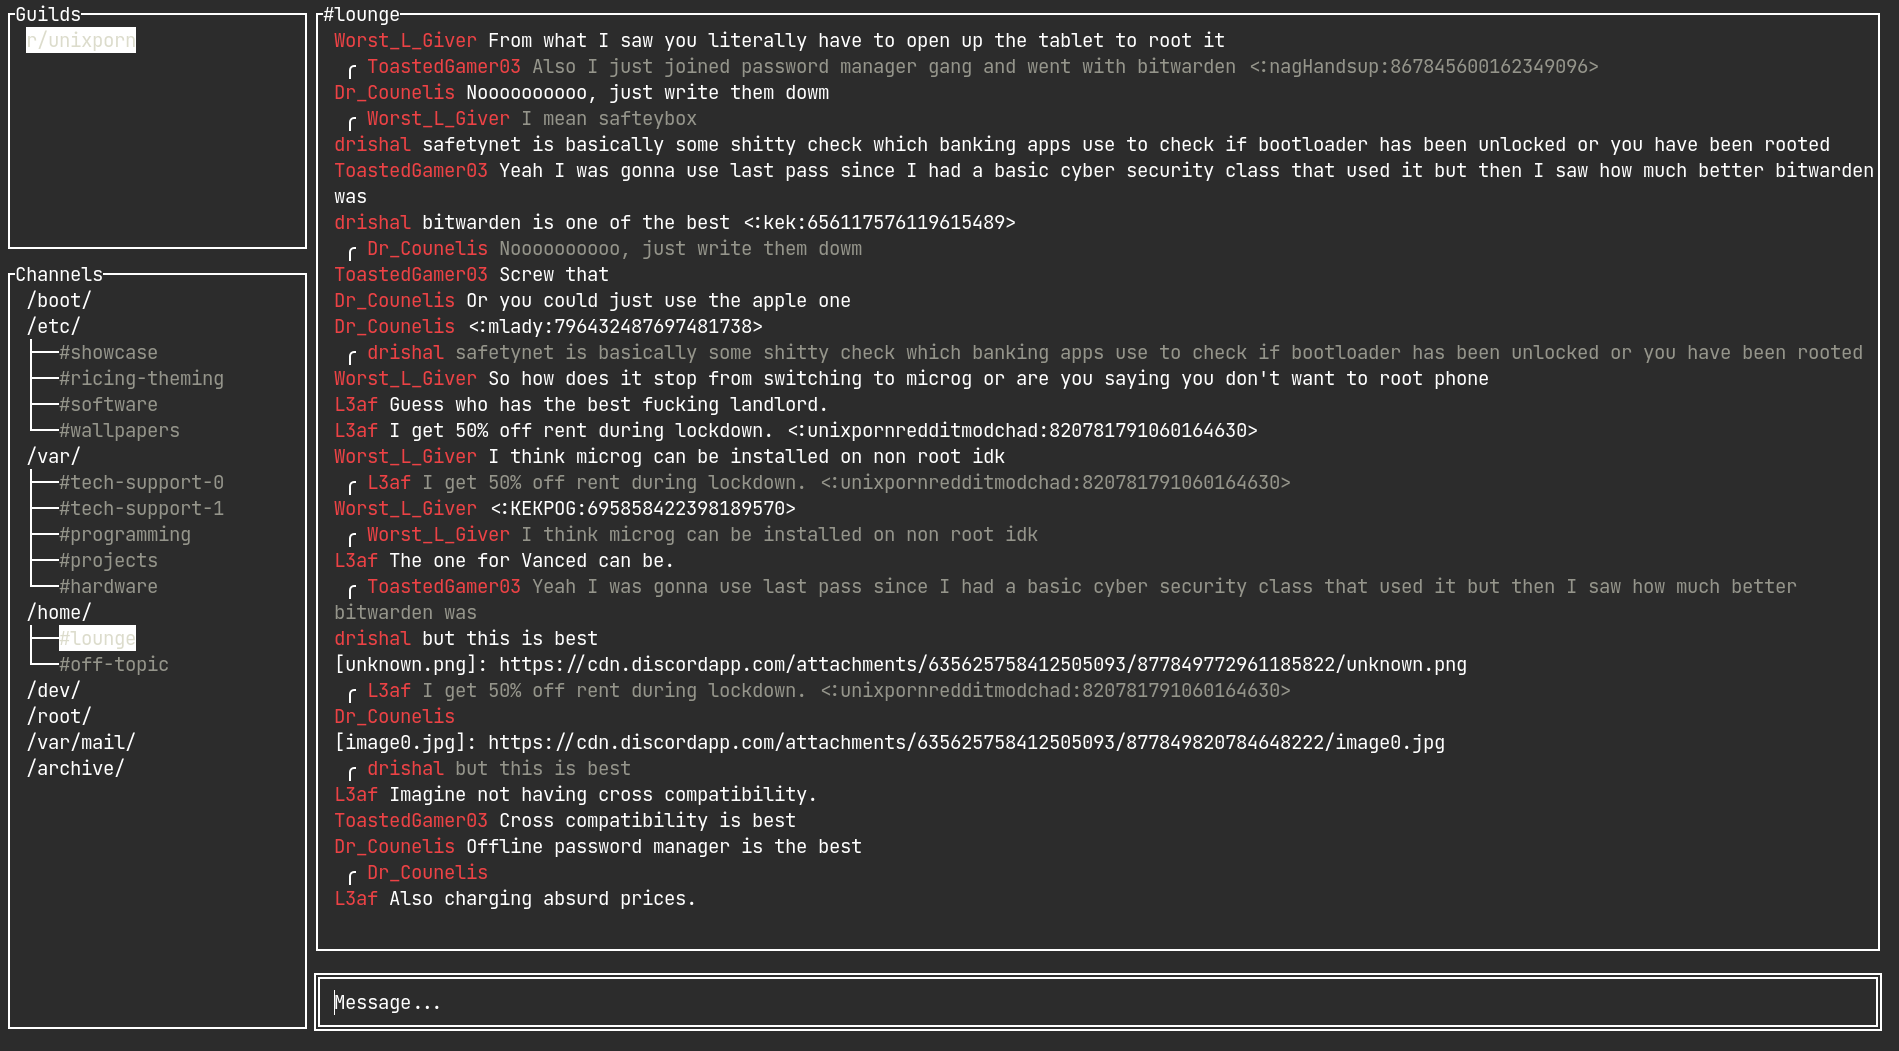
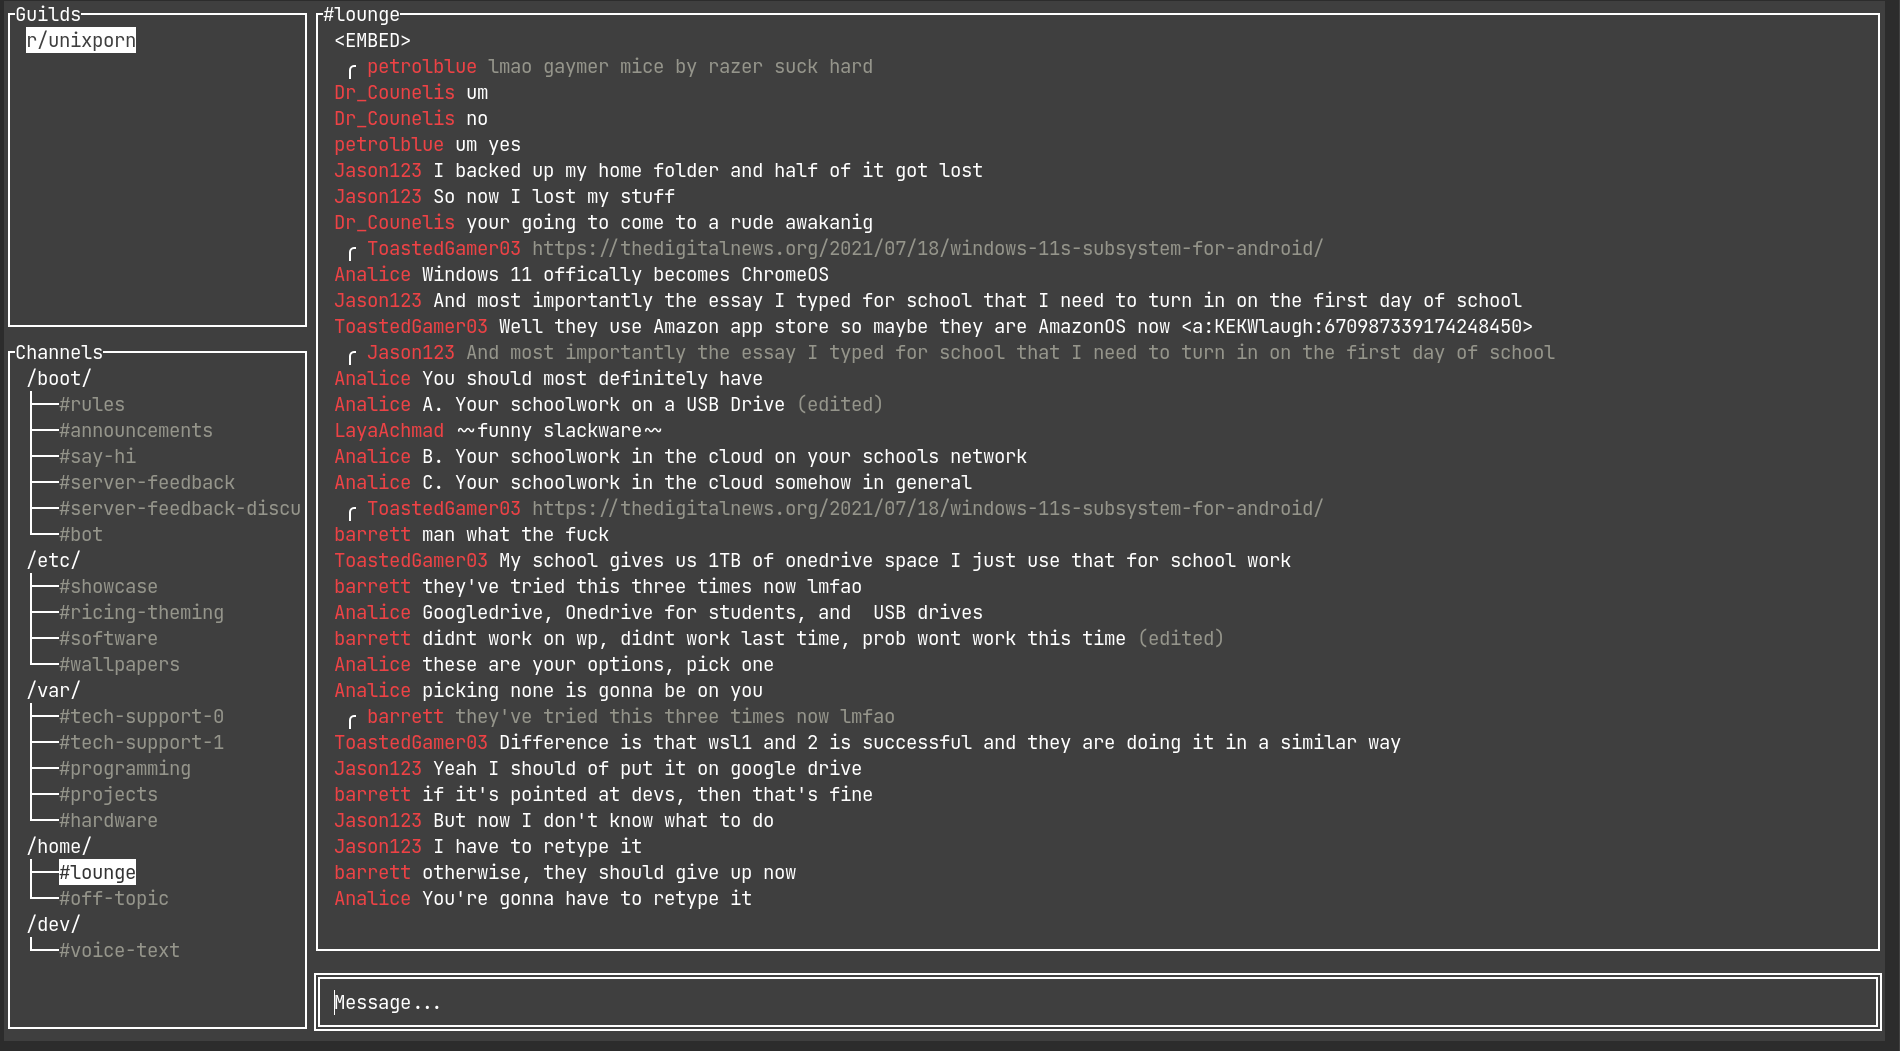
Hide non-permissible channels from channels TreeView (#35)
* Add discord.HasPermission()

* Exclude disallowed channels from TreeView

* Update README preview

diff --git a/ui/treeviews.go b/ui/treeviews.go
@@ -2,6 +2,7 @@ package ui
 
 import (
 	"github.com/rigormorrtiss/discordgo"
+	"github.com/rigormorrtiss/discordo/util"
 	"github.com/rivo/tview"
 )
 
@@ -58,9 +59,13 @@ func GetTreeNodeByReference(r interface{}, treeV *tview.TreeView) (mn *tview.Tre
 }
 
 // CreateTopLevelTreeNodes creates treenodes for the top-level (orphan) channels.
-func CreateTopLevelTreeNodes(rootN *tview.TreeNode, cs []*discordgo.Channel) {
+func CreateTopLevelChannelsTreeNodes(s *discordgo.State, rootN *tview.TreeNode, cs []*discordgo.Channel) {
 	for _, c := range cs {
 		if (c.Type == discordgo.ChannelTypeGuildText || c.Type == discordgo.ChannelTypeGuildNews) && (c.ParentID == "") {
+			if !util.HasPermission(s, s.User.ID, c.ID, discordgo.PermissionViewChannel) {
+				continue
+			}
+
 			cn := NewTextChannelTreeNode(c)
 			rootN.AddChild(cn)
 			continue
@@ -68,10 +73,38 @@ func CreateTopLevelTreeNodes(rootN *tview.TreeNode, cs []*discordgo.Channel) {
 	}
 }
 
-// CreateSecondLevelTreeNodes creates treenodes for the second-level (category children) channels.
-func CreateSecondLevelTreeNodes(channelsTreeView *tview.TreeView, rootN *tview.TreeNode, cs []*discordgo.Channel) {
+func CreateCategoryChannelsTreeNodes(s *discordgo.State, rootN *tview.TreeNode, cs []*discordgo.Channel) {
+CategoryLoop:
+	for _, c := range cs {
+		if c.Type == discordgo.ChannelTypeGuildCategory {
+			if !util.HasPermission(s, s.User.ID, c.ID, discordgo.PermissionViewChannel) {
+				continue
+			}
+
+			for _, child := range cs {
+				if child.ParentID == c.ID {
+					cn := tview.NewTreeNode(c.Name).
+						SetReference(c.ID)
+					rootN.AddChild(cn)
+					continue CategoryLoop
+				}
+			}
+
+			cn := tview.NewTreeNode(c.Name).
+				SetReference(c.ID)
+			rootN.AddChild(cn)
+		}
+	}
+}
+
+// CreateSecondLevelChannelsTreeNodes creates treenodes for the second-level (category children) channels.
+func CreateSecondLevelChannelsTreeNodes(s *discordgo.State, channelsTreeView *tview.TreeView, rootN *tview.TreeNode, cs []*discordgo.Channel) {
 	for _, c := range cs {
 		if (c.Type == discordgo.ChannelTypeGuildText || c.Type == discordgo.ChannelTypeGuildNews) && (c.ParentID != "") {
+			if !util.HasPermission(s, s.User.ID, c.ID, discordgo.PermissionViewChannel) {
+				continue
+			}
+
 			if pn := GetTreeNodeByReference(c.ParentID, channelsTreeView); pn != nil {
 				cn := NewTextChannelTreeNode(c)
 				pn.AddChild(cn)

diff --git a/discordo.go b/discordo.go
@@ -157,27 +157,11 @@ func onGuildsTreeViewSelected(gn *tview.TreeNode) {
 	rootN := channelsTreeView.GetRoot()
 	rootN.ClearChildren()
 	// Top-level channels
-	ui.CreateTopLevelTreeNodes(rootN, cs)
+	ui.CreateTopLevelChannelsTreeNodes(session.State, rootN, cs)
 	// Category channels
-CategoryLoop:
-	for _, c := range cs {
-		if c.Type == discordgo.ChannelTypeGuildCategory {
-			for _, child := range cs {
-				if child.ParentID == c.ID {
-					cn := tview.NewTreeNode(c.Name).
-						SetReference(c.ID)
-					rootN.AddChild(cn)
-					continue CategoryLoop
-				}
-			}
-
-			cn := tview.NewTreeNode(c.Name).
-				SetReference(c.ID)
-			rootN.AddChild(cn)
-		}
-	}
+	ui.CreateCategoryChannelsTreeNodes(session.State, rootN, cs)
 	// Second-level channels
-	ui.CreateSecondLevelTreeNodes(channelsTreeView, rootN, cs)
+	ui.CreateSecondLevelChannelsTreeNodes(session.State, channelsTreeView, rootN, cs)
 
 	channelsTreeView.SetCurrentNode(rootN)
 }

diff --git a/util/discord.go b/util/discord.go
@@ -181,3 +181,13 @@ func TOTP(s *discordgo.Session, code, ticket string) (*loginResponse, error) {
 
 	return lr, nil
 }
+
+// HasPermission returns a boolean representing whether the provided user has given permissions or not.
+func HasPermission(s *discordgo.State, uID string, cID string, perm int64) bool {
+	p, err := s.UserChannelPermissions(uID, cID)
+	if err != nil {
+		return false
+	}
+
+	return p&perm == perm
+}
